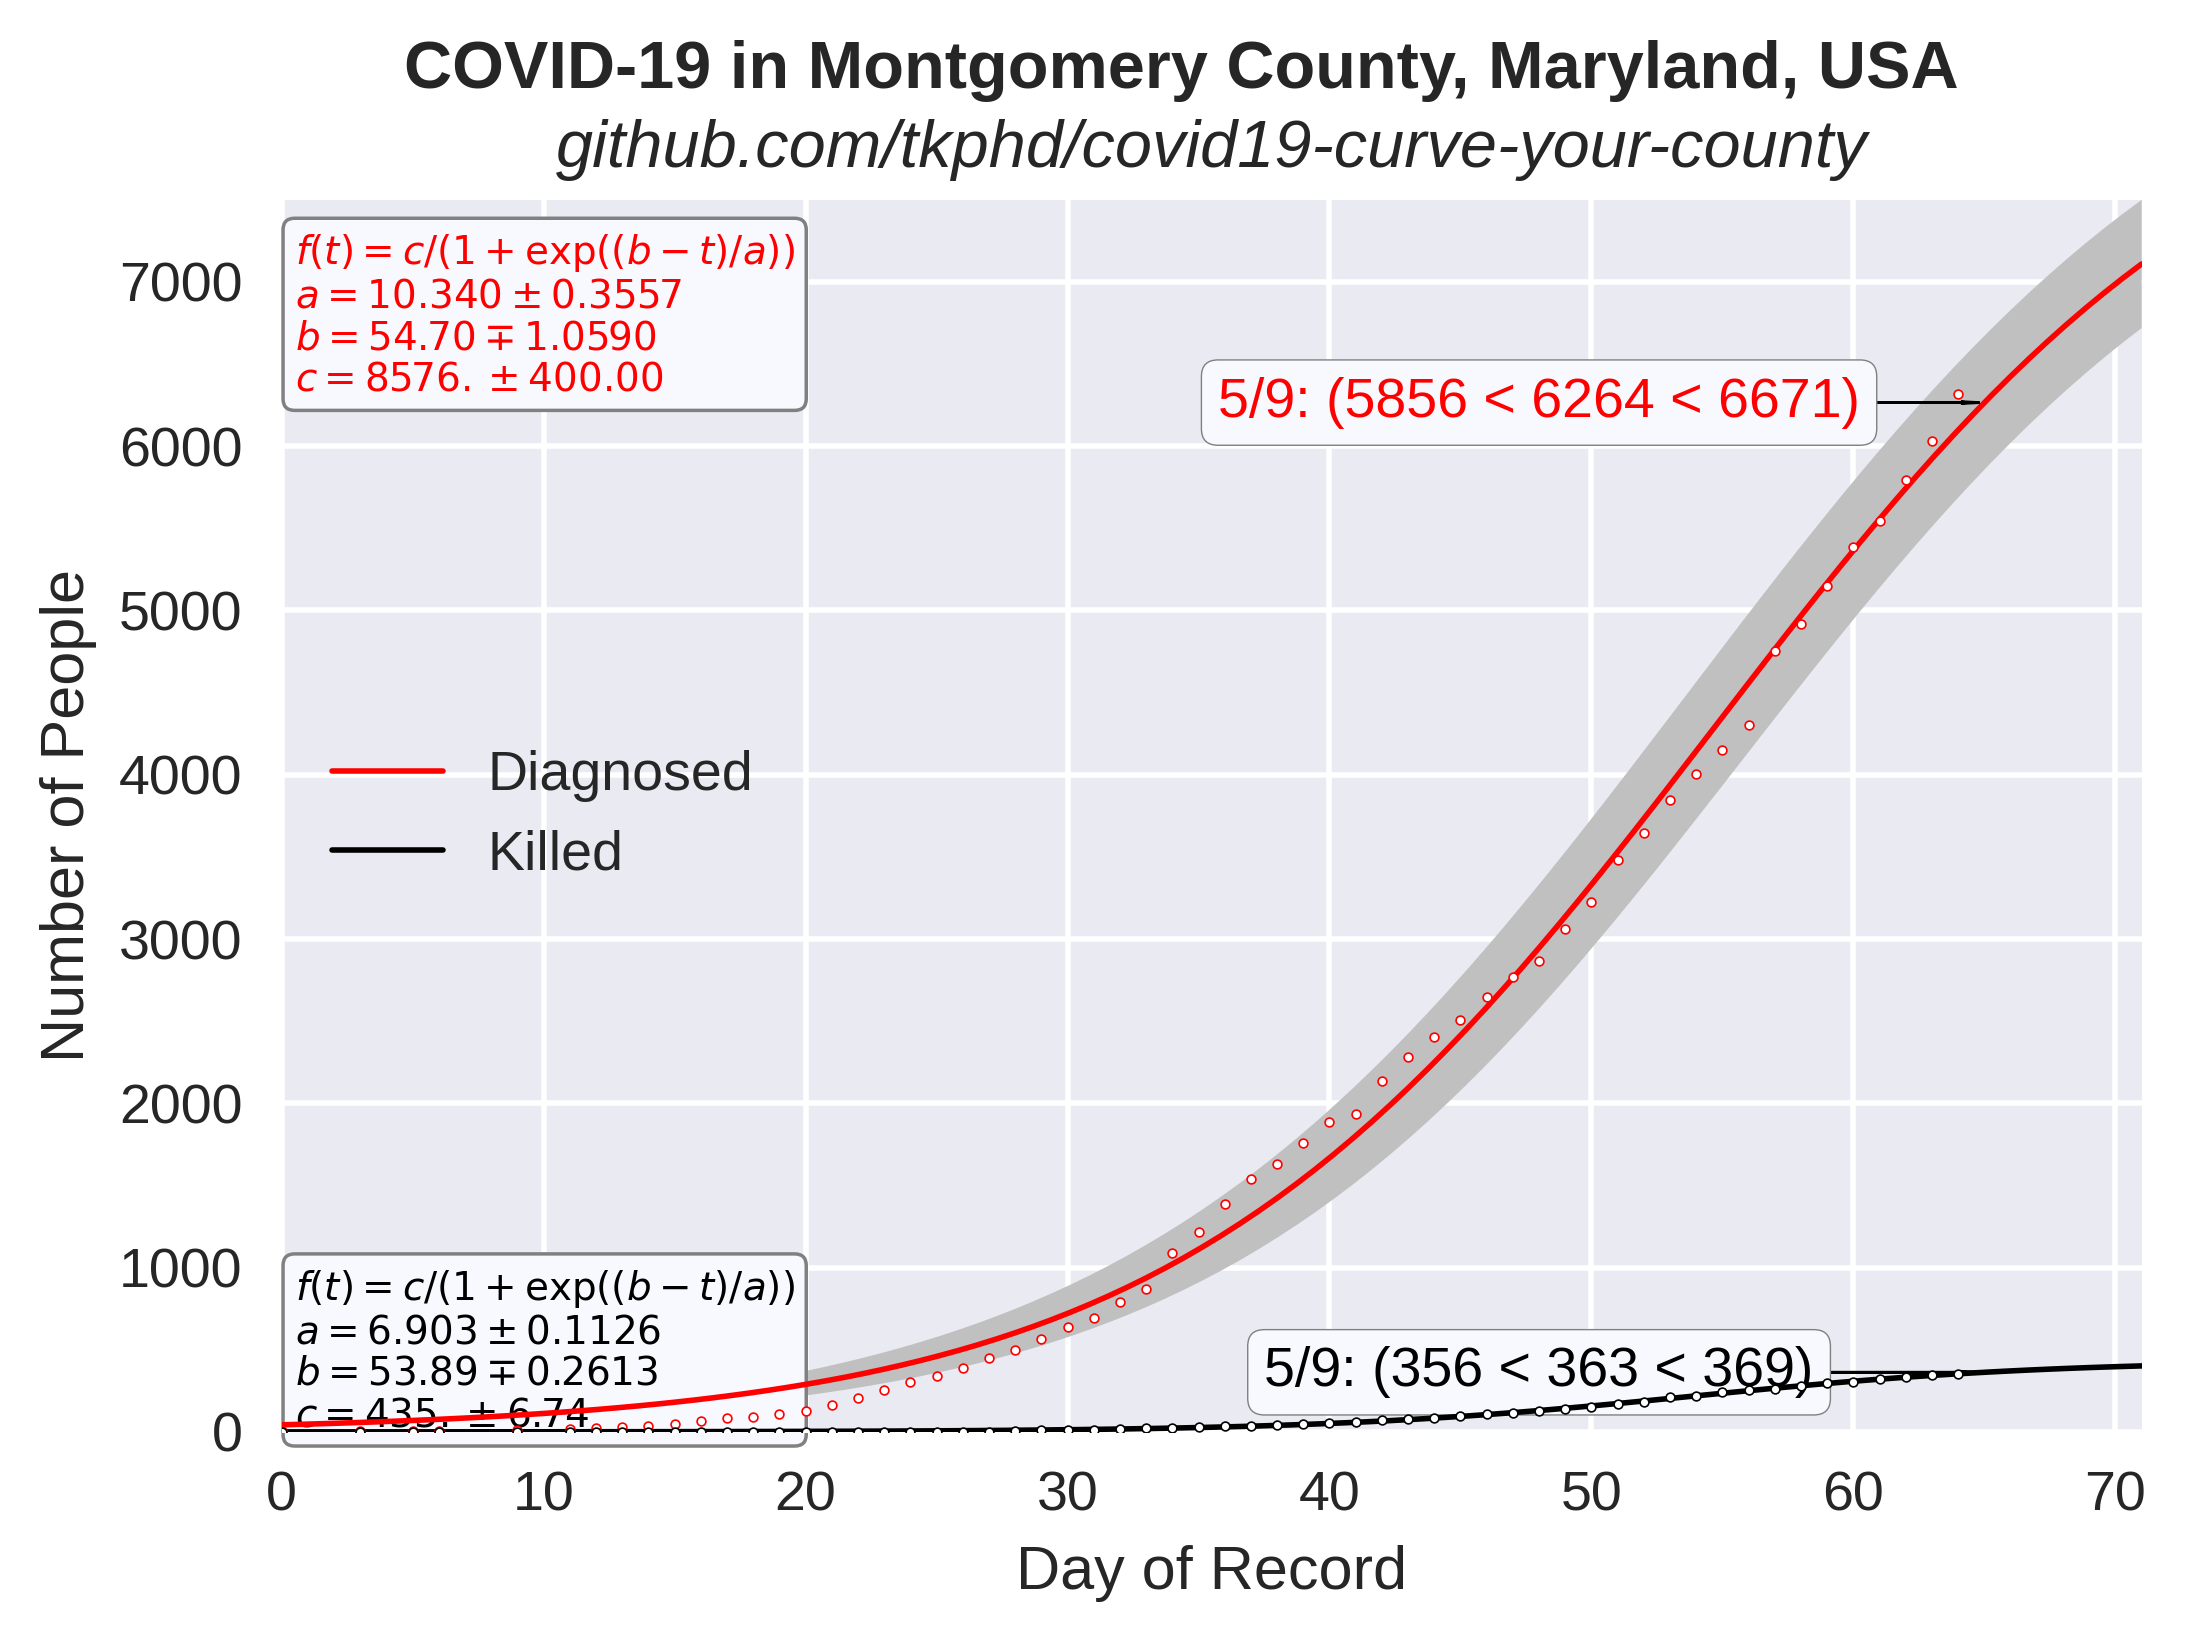
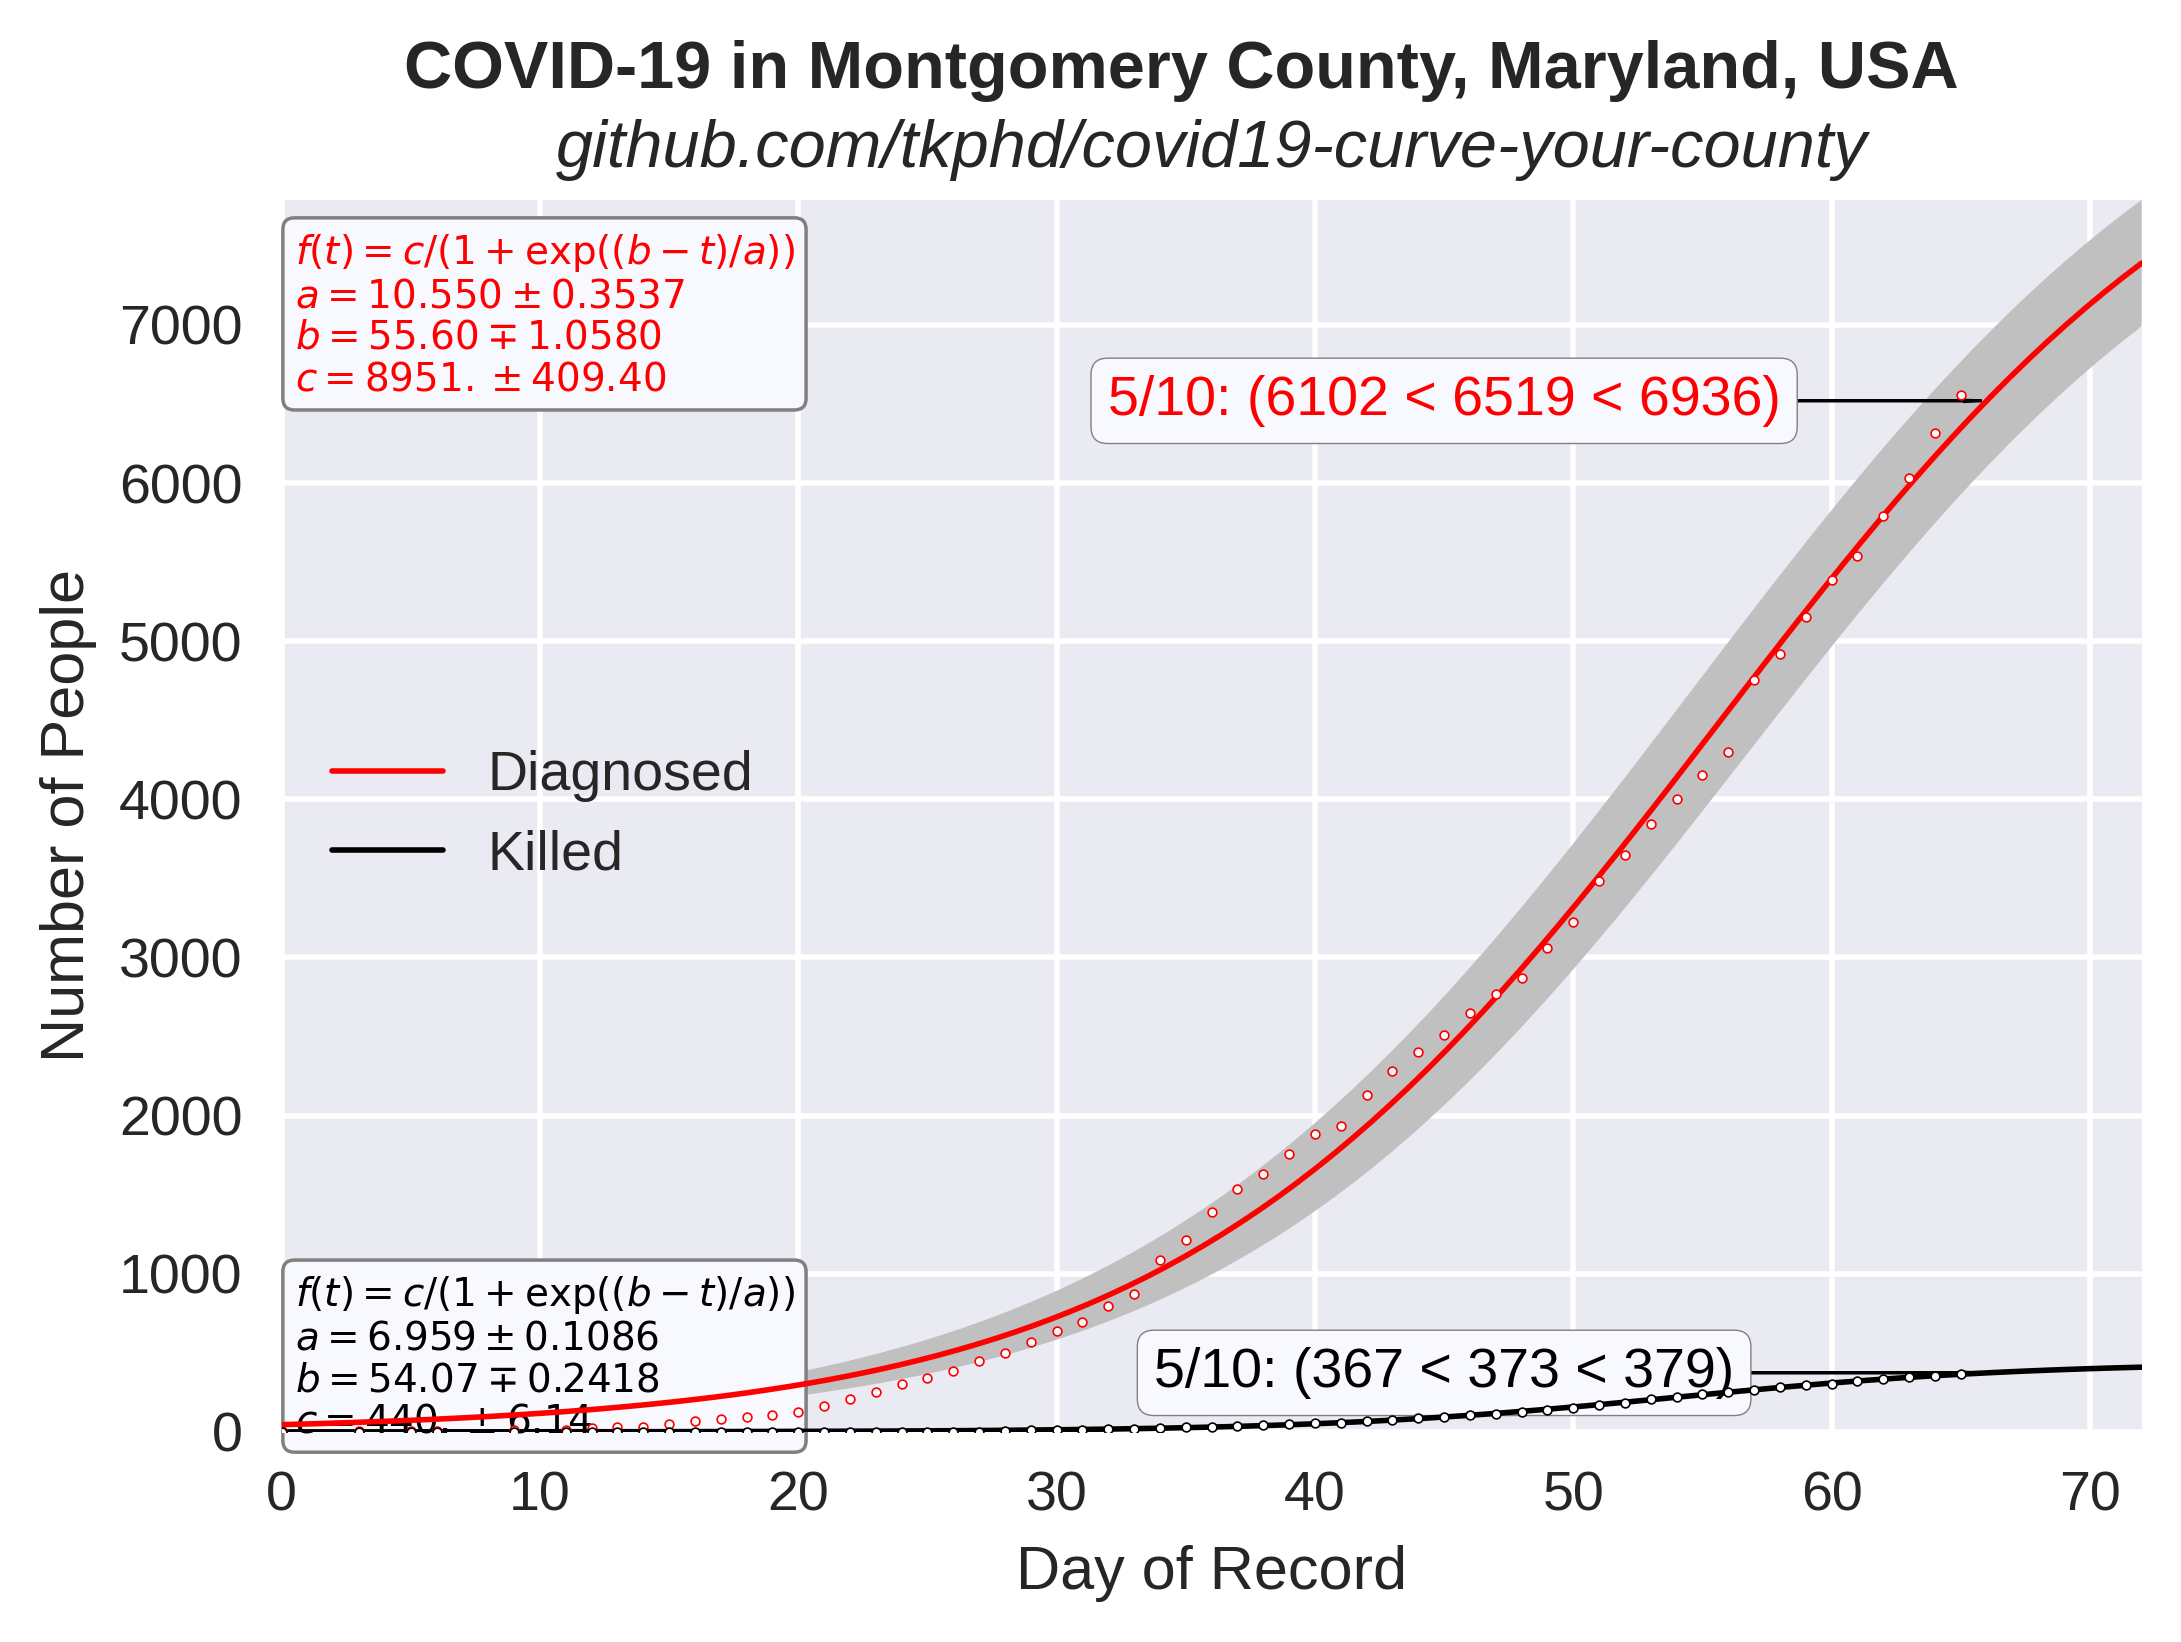
2020-05-09 update

diff --git a/exponential.py b/exponential.py
@@ -159,7 +159,7 @@ for key in columns:
     # Predictions
 
     dx = 0.25
-    dt = 17
+    dt = 21
 
     tomorrow = date.fromordinal(today + 1)
     nextWeek = date.fromordinal(today + 7)
